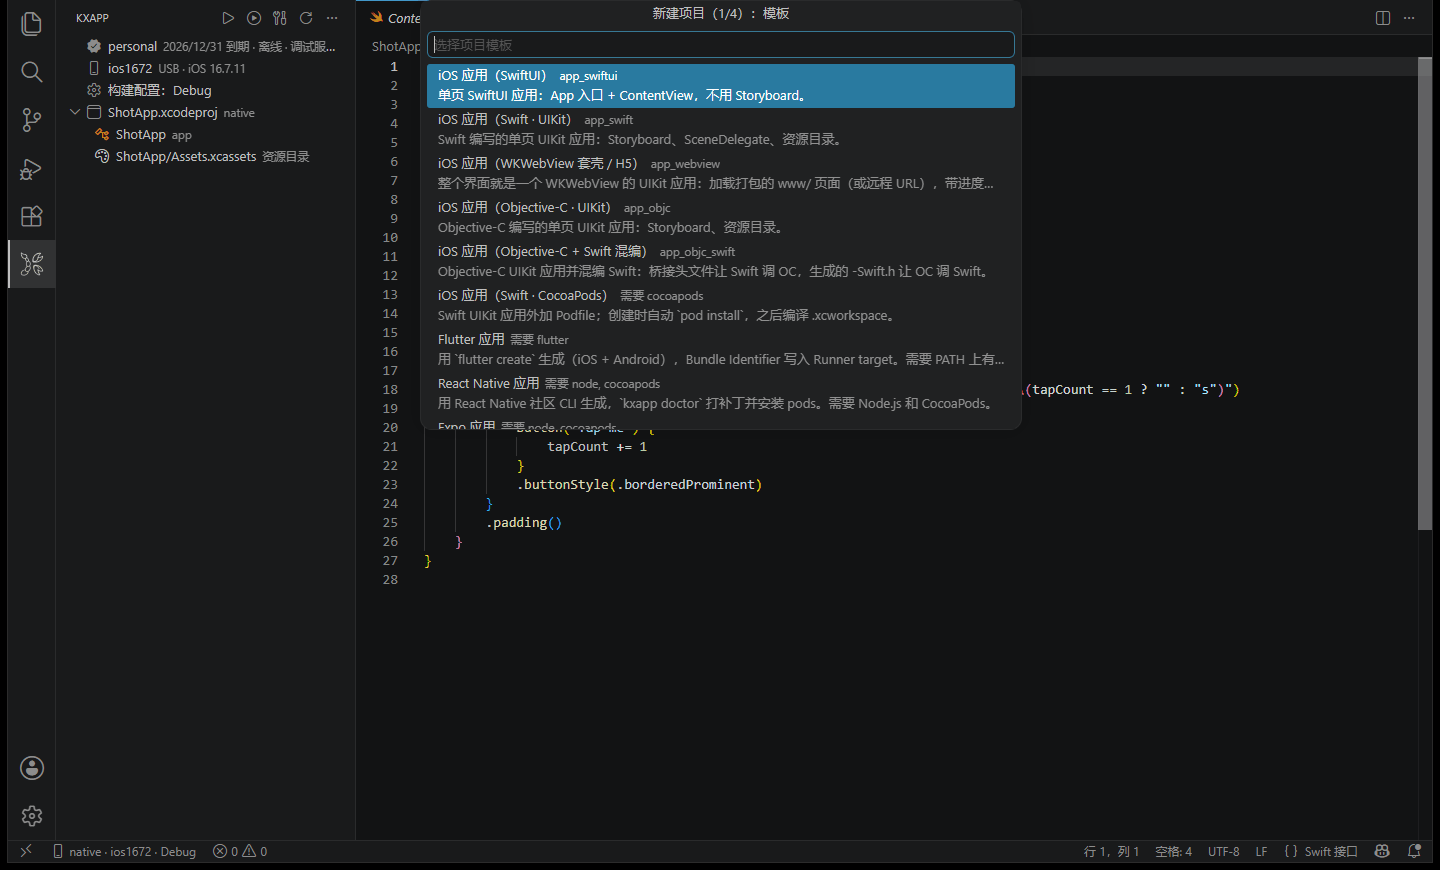
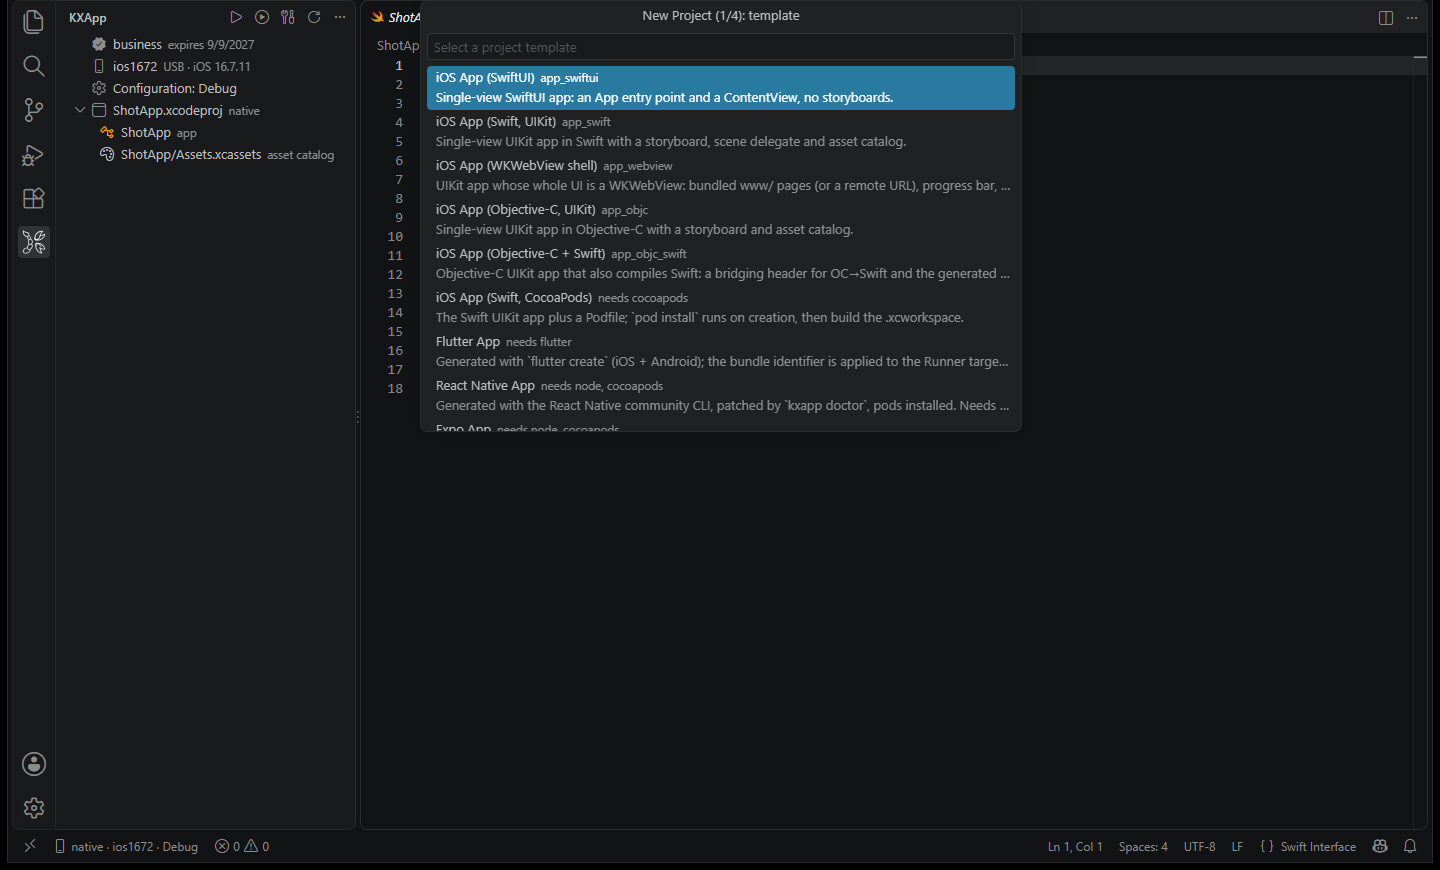
修改图片截图国际化

diff --git a/README.md b/README.md
@@ -70,6 +70,8 @@ Fully compatible with Xcode projects and the xcodebuild command. No Mac and no X
 | <img src="https://cdn.simpleicons.org/cocos/55C2E1" width="18" /> **cocos2d-x** | ✅ | ✅ | ✅ | ✅ | ✅ |
 | <img src="https://cdn.simpleicons.org/apachecordova/35434F" width="18" /> **Cordova** | ✅ | ✅ | ✅ | ✅ | ✅ |
 
+Step-by-step guides for each stack are in [doc/en](doc/en/README.md).
+
 ## 🛠 Do Your Xcode Work in VS Code
 
 Project settings, Info.plist, asset catalogs, and app icons all have visual editors. What you save is the original file, which Xcode opens as usual.

diff --git a/README_zh.md b/README_zh.md
@@ -70,6 +70,8 @@
 | <img src="https://cdn.simpleicons.org/cocos/55C2E1" width="18" /> **cocos2d-x** | ✅ | ✅ | ✅ | ✅ | ✅ |
 | <img src="https://cdn.simpleicons.org/apachecordova/35434F" width="18" /> **Cordova** | ✅ | ✅ | ✅ | ✅ | ✅ |
 
+各技术栈的开发步骤见 [doc/zh](doc/zh/README.md)。
+
 
 
 ## 🛠 在 VS Code 里做 Xcode 里的那些事
